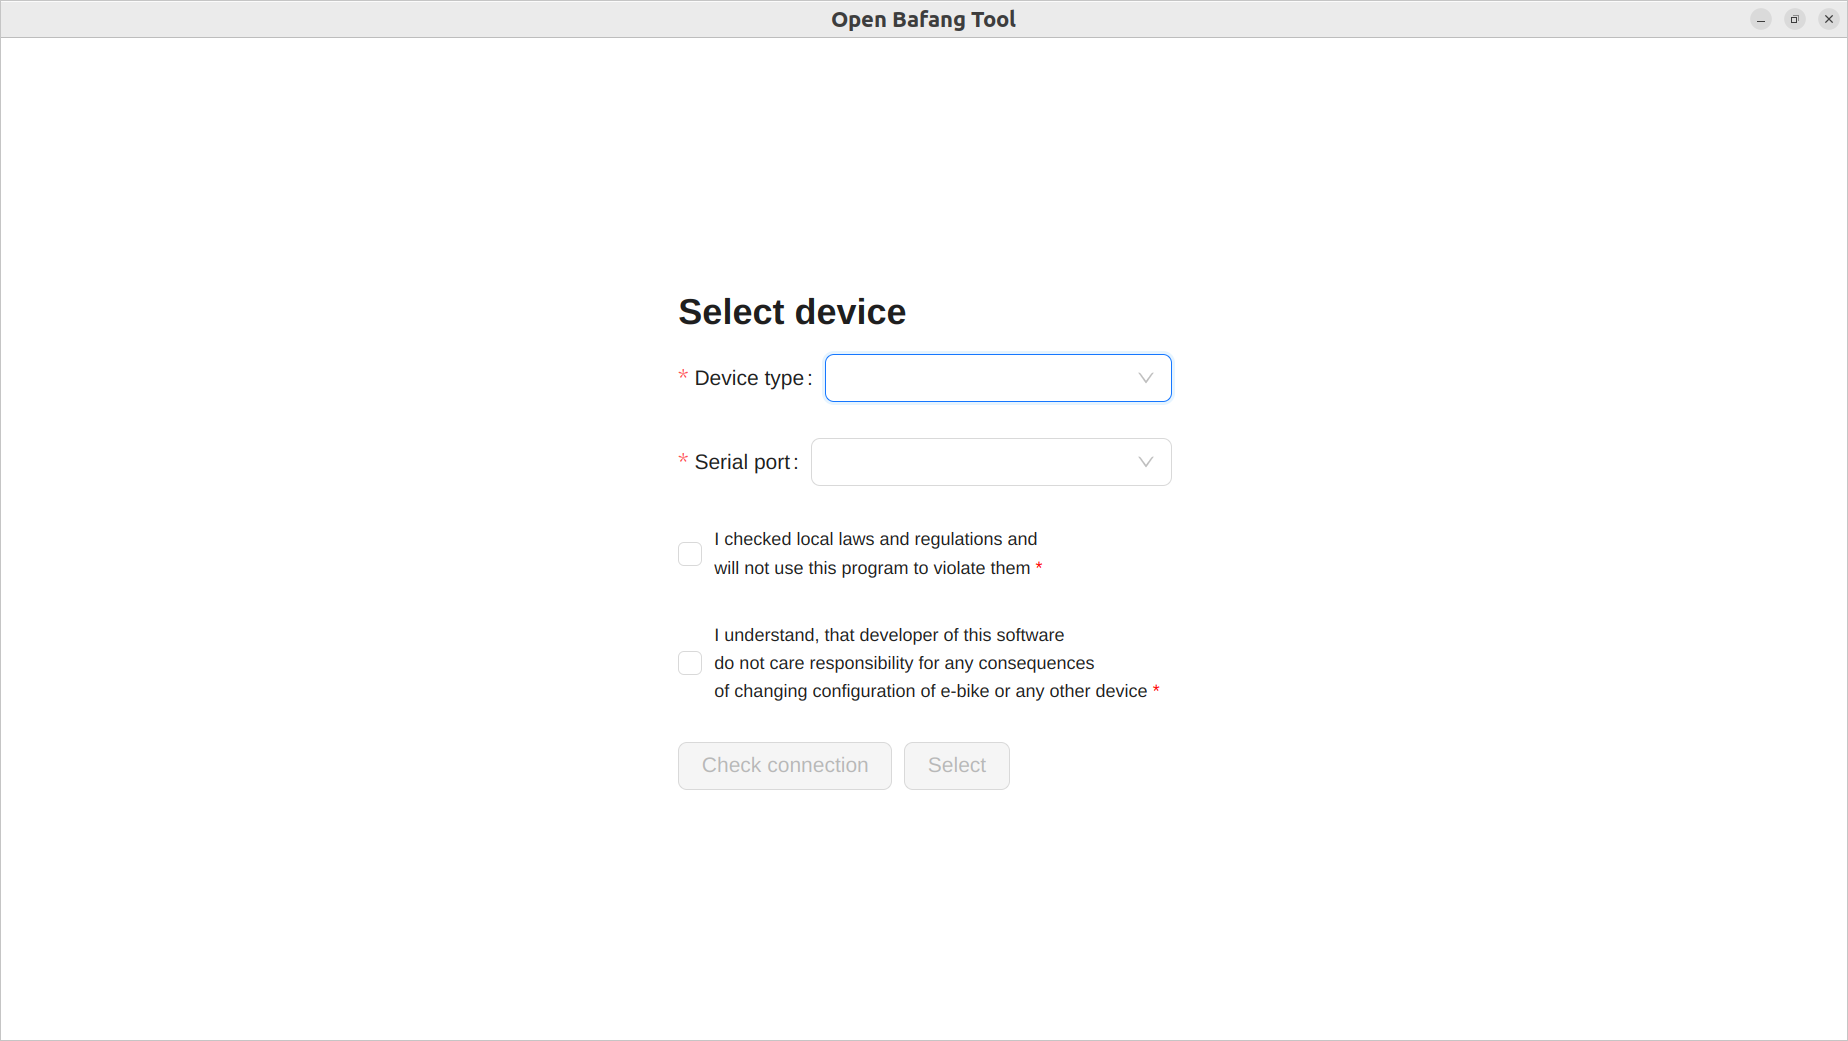
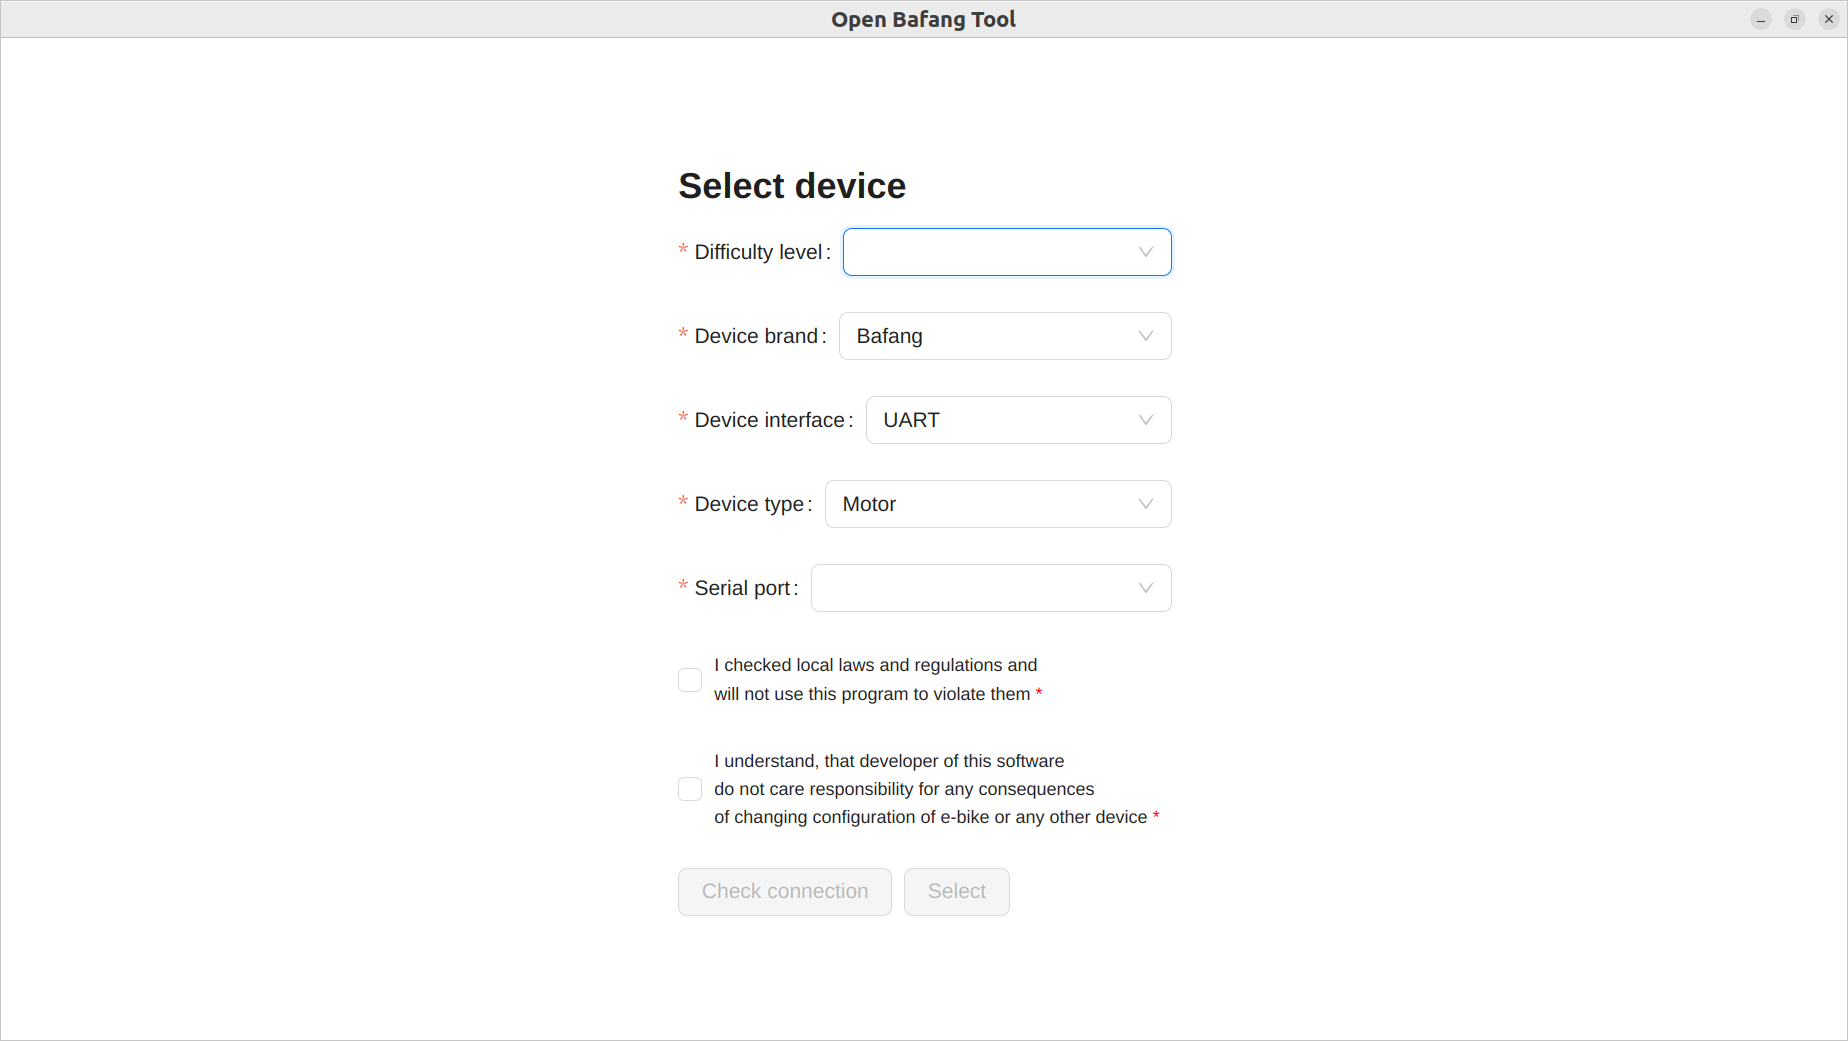
Updated general manual

diff --git a/src/docs/img_resolver.ts b/src/docs/img_resolver.ts
@@ -10,6 +10,11 @@ import ParametersPage from '../../docs/assets/general_manual/parameters_page.png
 import PortSelector from '../../docs/assets/general_manual/port_selector.png';
 import Warning from '../../docs/assets/general_manual/warning.png';
 import WriteSuccess from '../../docs/assets/general_manual/write_success.png';
+import InterfaceTypeSelector from '../../docs/assets/general_manual/interface_type_selector.png';
+import SimplifiedMenu from '../../docs/assets/general_manual/simplified_menu.png';
+import SimplifiedParameters from '../../docs/assets/general_manual/simplified_parameters.png';
+import SimplifiedWarning from '../../docs/assets/general_manual/simplified_warning.png';
+
 
 // TODO this file is a very big kludge, made as temporal solution for assets import problem
 
@@ -26,6 +31,10 @@ const images = {
     'assets/general_manual/port_selector.png': PortSelector,
     'assets/general_manual/warning.png': Warning,
     'assets/general_manual/write_success.png': WriteSuccess,
+    'assets/general_manual/interface_type_selector.png': InterfaceTypeSelector,
+    'assets/general_manual/simplified_menu.png': SimplifiedMenu,
+    'assets/general_manual/simplified_parameters.png': SimplifiedParameters,
+    'assets/general_manual/simplified_warning.png': SimplifiedWarning,
 };
 
 export function getImage(name: string) {

diff --git a/src/renderer/views/connect/DeviceSelectionView.tsx b/src/renderer/views/connect/DeviceSelectionView.tsx
@@ -111,11 +111,11 @@ class DeviceSelectionView extends React.Component<
                     <Typography.Title level={3}>Select device</Typography.Title>
                     <Form.Item
                         name="difficulty_level"
-                        label="Difficulty level"
+                        label="Interface type"
                         rules={[
                             {
                                 required: true,
-                                message: 'Difficulty level is required',
+                                message: 'Interface type is required',
                             },
                         ]}
                     >
@@ -132,7 +132,7 @@ class DeviceSelectionView extends React.Component<
                             <Option value={DifficultyLevel.Simplified}>
                                 Simplified
                             </Option>
-                            <Option value={DifficultyLevel.Pro}>Pro</Option>
+                            <Option value={DifficultyLevel.Pro}>Full</Option>
                         </Select>
                     </Form.Item>
                     <Form.Item

diff --git a/docs/General manual.md b/docs/General manual.md
@@ -4,11 +4,11 @@
 
 ![Device selection view screenshot](assets/general_manual/device_selection_view.png)
 
-This is the first view of program, that appears aften launch. Here you can choose what device do you want to interact.
+This is the first view of program, that appears aften launch. Here you can choose what device do you want to interact and interface type (simplified or full).
 
-![Device type selector](assets/general_manual/device_selection_view.png)
+![Device type selector](assets/general_manual/interface_type_selector.png)
 
-At first, select type of your device. Currently, the only supported type is Bafang motor with UART interface. Compatible Bafang display will be supported soon. Later I'll add more device types and manufacturers.
+At first, select simplified or full interface. If you are newbie, better to select simplified mode. Then select type of your device. Currently, the only supported type is Bafang motor with UART interface. Bafang systems with CAN will be available soon. Later I'll add more device types and manufacturers.
 
 ![Serial port selector](assets/general_manual/port_selector.png)
 
@@ -22,7 +22,30 @@ There are disclaimer checkbox, you should select them.
 
 Then press button "Check Connection". If connection is successful, press "Select". In not, check device type, port, cable and device.
 
-#### Main view
+#### Main view (Simplified mode)
+
+![Main view](assets/general_manual/simplified_parameters.png)
+
+This is a main view of program. Here you can configurate device and see docs for it.
+
+![Menu](assets/general_manual/simplified_menu.png)
+
+This is a side menu. Button "Back" closes connection and opens device selection view. Button "Parameters" opens page with parameters that you can change (check out docs for parameters of your device). Button "Manual" opens list of docs, available for your device except complicated technical data, that you need only in full mode. 
+
+![Warning](assets/general_manual/simplified_warning.png)
+
+When you enter unusual value to parameter field, you will get warning about it. Note, that this function is not absolutely reliable and you may not get warning even for wrong value or get wrong warning for correct value.
+
+![Control buttons](assets/general_manual/control_buttons.png)
+
+Button with arrows means "read all data from device again". Button with rocket means "write all data to device".
+
+![Write success](assets/general_manual/write_success.png)
+
+After reading or writing you will get notifications with result (success or error).\
+⚠ If you got a write error of some parameter, it means that its too low or too big even if you got no warning from field. Also its possibble that you will get a new error after fixing previous - motor returns error answer only for first error value in package.
+
+#### Main view (Full mode)
 
 ![Main view](assets/general_manual/main_view.png)
 
